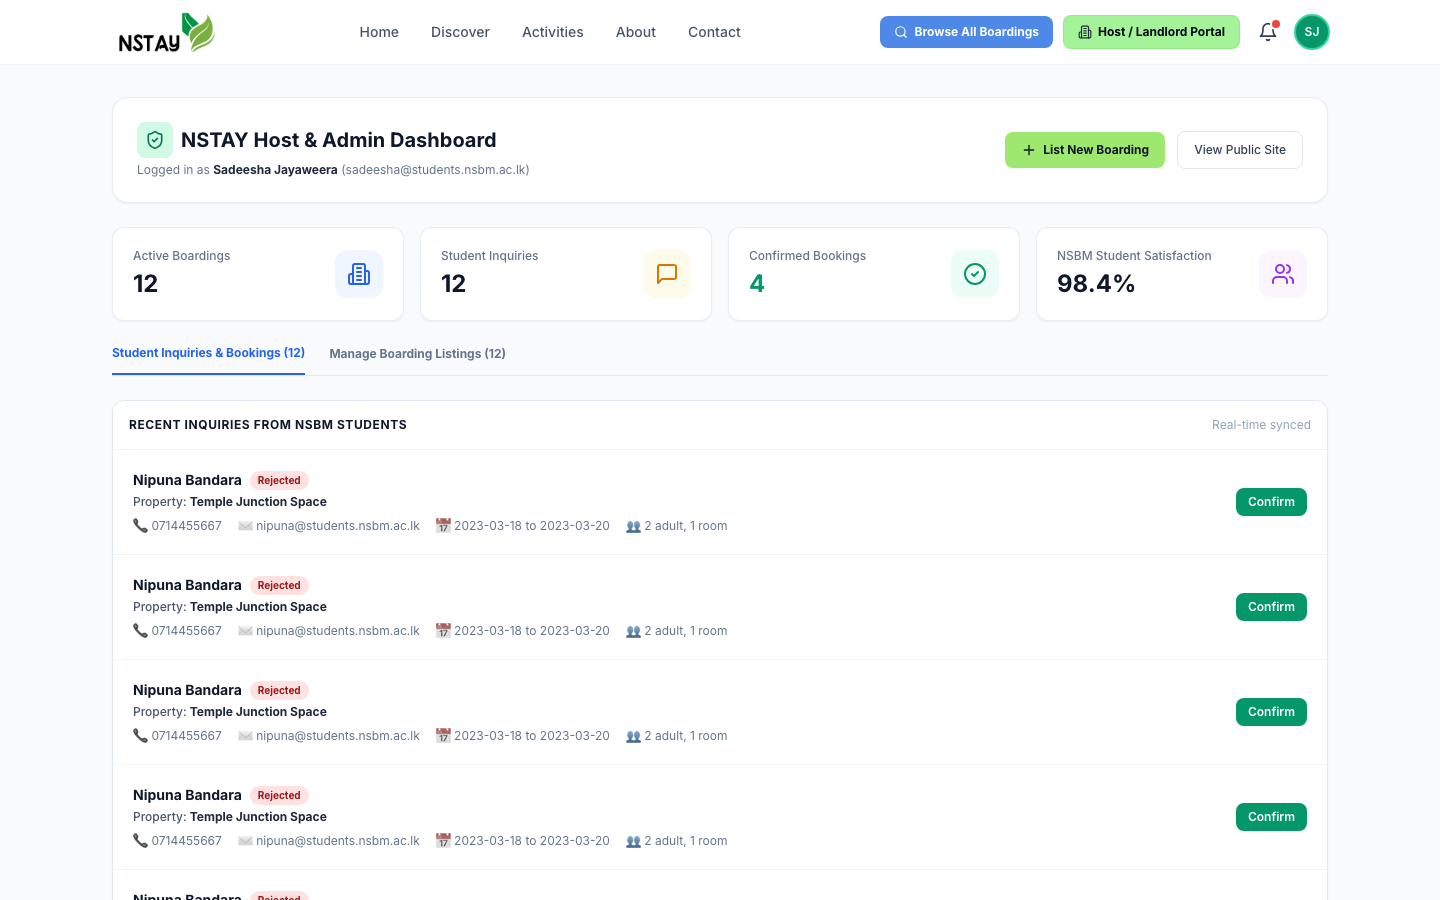
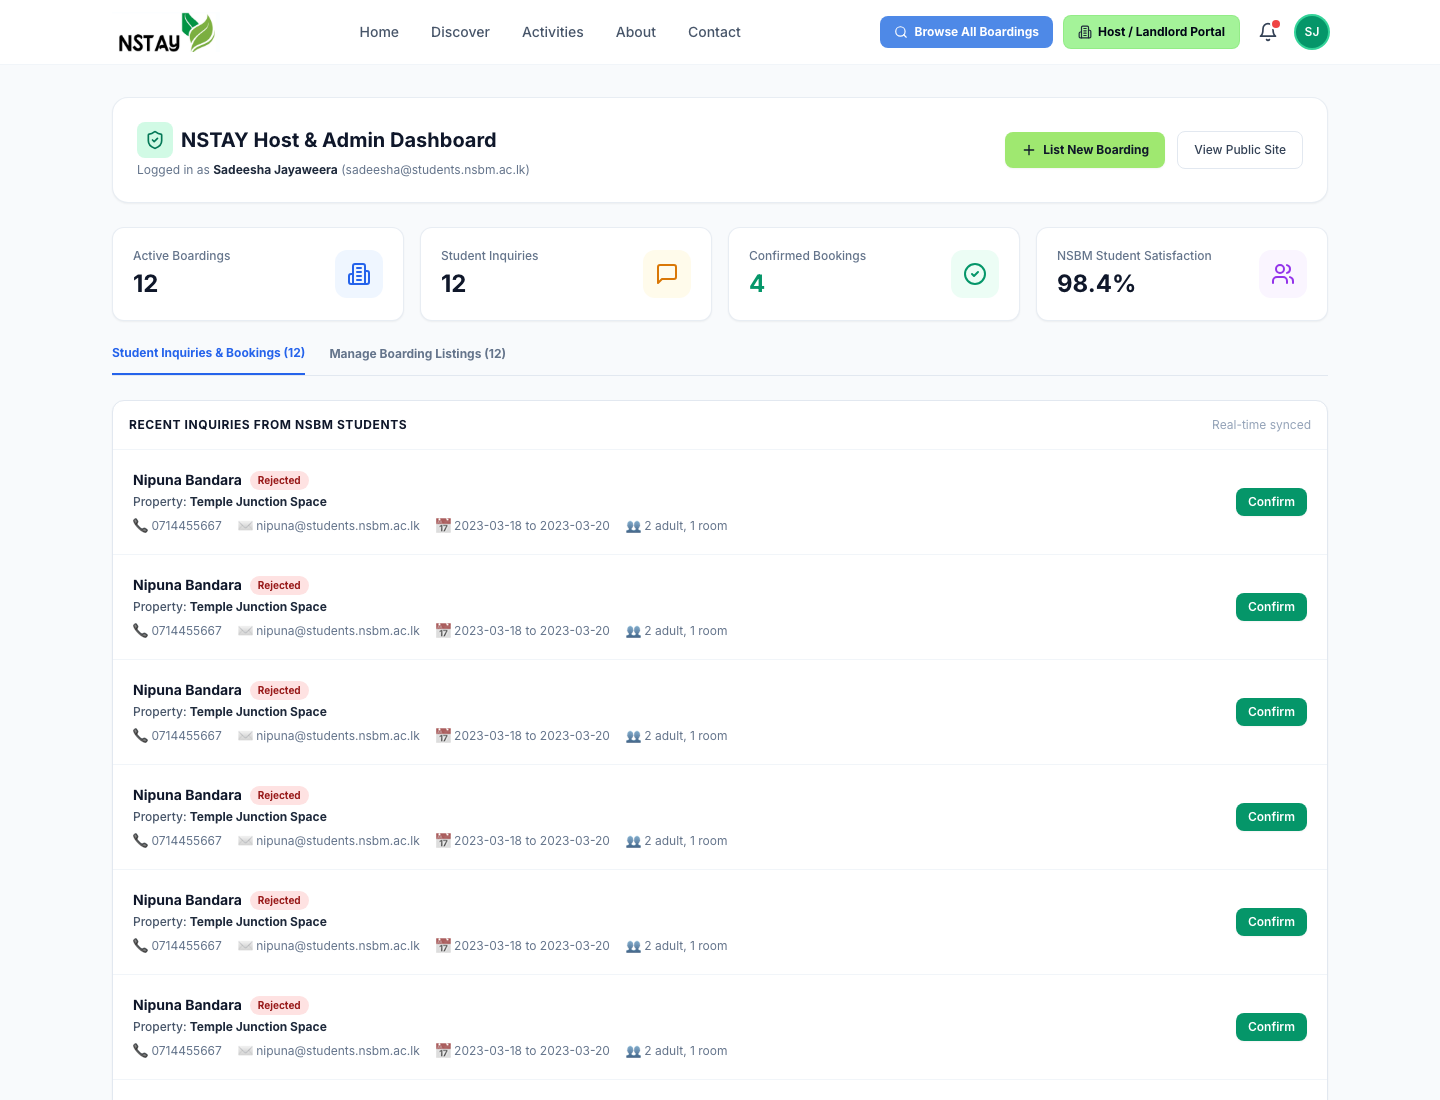
docs: add full homepage, activities, about, and contact screenshots to README

diff --git a/README.md b/README.md
@@ -14,9 +14,16 @@
 ## 📸 Application Showcase & Screenshots
 
 ### 1. Modern Homepage & Green Campus Proximity Finder
-*Featuring real NSBM student life photography, quick junction search, and navigation actions.*
+*Featuring real NSBM student life photography, quick junction search, parallel navigation actions, and complete campus guide.*
 
-![NSTAY Homepage](screenshots/01_homepage.png)
+<details open>
+<summary><b>View Full Scrollable Homepage</b></summary>
+
+![NSTAY Full Homepage](screenshots/01_homepage_full.png)
+</details>
+
+*Top Hero & Navigation View:*
+![NSTAY Homepage Hero](screenshots/01_homepage.png)
 
 ---
 
@@ -52,6 +59,27 @@
 *Live metrics, listing controls, reservation review pipelines, and vacancy management.*
 
 ![NSTAY Host Dashboard](screenshots/06_host_admin_dashboard.png)
+
+---
+
+### 7. Campus Life & Surrounding Activities (`/activities`)
+*Comprehensive guide to NSBM sports complex, swimming pool, late-night student hangouts, transit hubs, and study pods.*
+
+![NSTAY Activities Page](screenshots/07_activities_page.png)
+
+---
+
+### 8. About NSTAY & Faculty of Computing (`/about`)
+*Aerial university photography, project origin under the Faculty of Computing, and mission highlights.*
+
+![NSTAY About Page](screenshots/08_about_page.png)
+
+---
+
+### 9. Student Support & Inquiries (`/contact`)
+*Interactive inquiry submission, 24/7 student helpline contacts, and direct university campus coordinates.*
+
+![NSTAY Contact Page](screenshots/09_contact_page.png)
 
 ---
 
